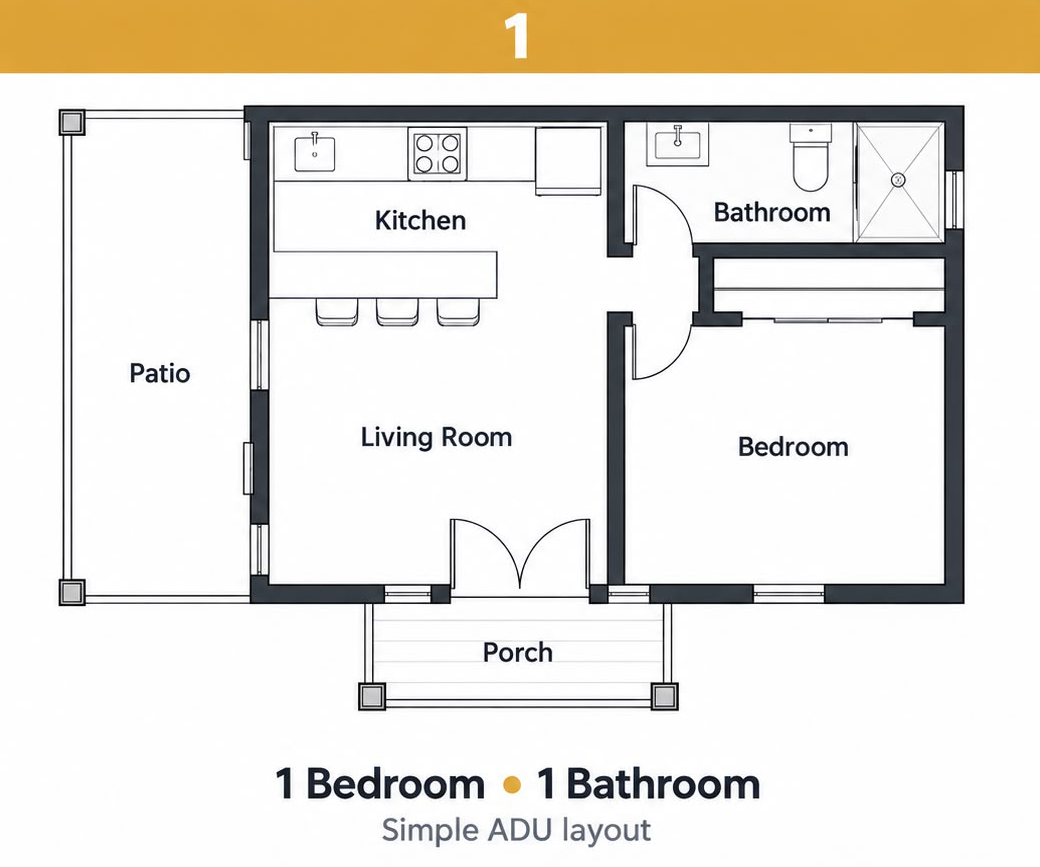
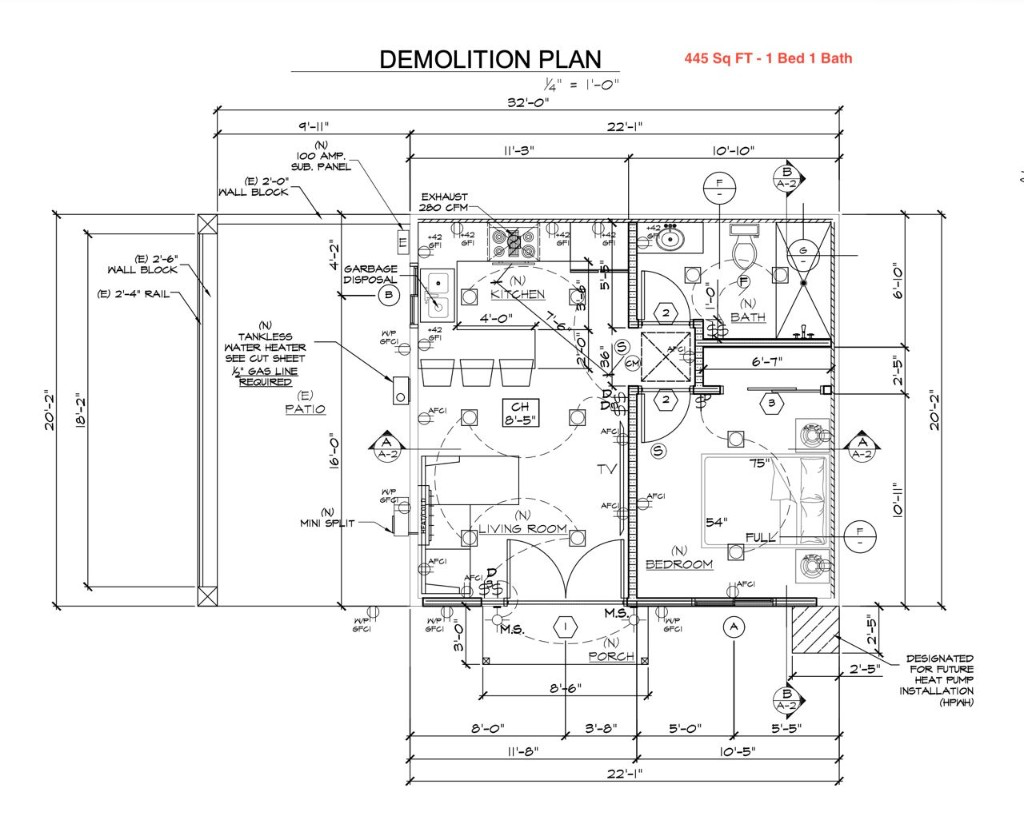
Refresh ADU floor-plan options with new plans and a lightbox.
Swap in the three current plan sheets, align titles to real sq ft specs, and let visitors open a full-viewport view for clearer reading.

Changed region(s): [[0.0, 0.0, 1.0, 0.9804], [0.8125, 0.8885, 0.8438, 0.9498]]

diff --git a/client/global.css b/client/global.css
@@ -2018,7 +2018,25 @@ label {
   border: 1px solid #ebe3d4;
   overflow: hidden;
 }
-.adu-option-figure img {
+.adu-option-zoom {
+  position: relative;
+  display: block;
+  width: 100%;
+  margin: 0;
+  padding: 0;
+  border: 0;
+  background: #fff;
+  cursor: zoom-in;
+  text-align: left;
+  font: inherit;
+  color: inherit;
+}
+.adu-option-zoom:focus-visible {
+  outline: 2px solid var(--gold);
+  outline-offset: 2px;
+}
+.adu-option-figure img,
+.adu-option-zoom img {
   display: block;
   width: 100%;
   height: auto;
@@ -2026,6 +2044,22 @@ label {
   object-fit: contain;
   object-position: center;
   animation: groundwork-image-in 500ms ease-out both;
+}
+.adu-option-zoom-hint {
+  position: absolute;
+  right: 0.65rem;
+  bottom: 0.65rem;
+  display: inline-flex;
+  align-items: center;
+  gap: 0.35rem;
+  padding: 0.4rem 0.65rem;
+  border-radius: 999px;
+  background: rgba(14, 42, 74, 0.88);
+  color: #fff;
+  font-size: 0.72rem;
+  font-weight: 650;
+  letter-spacing: 0.02em;
+  pointer-events: none;
 }
 .adu-option-card-meta {
   margin-top: 1rem;
@@ -2046,6 +2080,87 @@ label {
   width: 100%;
   margin-top: 1.15rem;
   justify-content: center;
+}
+
+/* Floor-plan lightbox (public) */
+.image-lightbox-backdrop {
+  position: fixed;
+  inset: 0;
+  z-index: 80;
+  display: flex;
+  align-items: center;
+  justify-content: center;
+  padding: max(0.75rem, env(safe-area-inset-top))
+    max(0.75rem, env(safe-area-inset-right))
+    max(0.75rem, env(safe-area-inset-bottom))
+    max(0.75rem, env(safe-area-inset-left));
+  background: rgba(14, 42, 74, 0.72);
+  backdrop-filter: blur(4px);
+}
+.image-lightbox {
+  display: flex;
+  flex-direction: column;
+  width: min(1120px, 100%);
+  max-height: min(92vh, 100%);
+  background: #fff;
+  border-radius: 0.85rem;
+  box-shadow: 0 24px 64px rgba(0, 0, 0, 0.28);
+  overflow: hidden;
+  min-width: 0;
+}
+.image-lightbox-bar {
+  display: flex;
+  align-items: center;
+  justify-content: space-between;
+  gap: 0.75rem;
+  padding: 0.75rem 0.9rem;
+  border-bottom: 1px solid rgba(14, 42, 74, 0.08);
+  background: #faf7f1;
+}
+.image-lightbox-title {
+  margin: 0;
+  display: inline-flex;
+  align-items: center;
+  gap: 0.45rem;
+  min-width: 0;
+  color: var(--ink);
+  font-size: 0.85rem;
+  font-weight: 650;
+}
+.image-lightbox-close {
+  display: inline-flex;
+  align-items: center;
+  justify-content: center;
+  width: 2.25rem;
+  height: 2.25rem;
+  flex-shrink: 0;
+  border: 0;
+  border-radius: 999px;
+  background: rgba(14, 42, 74, 0.08);
+  color: var(--ink);
+  cursor: pointer;
+}
+.image-lightbox-close:hover {
+  background: rgba(14, 42, 74, 0.14);
+}
+.image-lightbox-close:focus-visible {
+  outline: 2px solid var(--gold);
+  outline-offset: 2px;
+}
+.image-lightbox-stage {
+  flex: 1;
+  min-height: 0;
+  overflow: auto;
+  -webkit-overflow-scrolling: touch;
+  padding: 0.75rem;
+  background: #fff;
+}
+.image-lightbox-stage img {
+  display: block;
+  width: 100%;
+  height: auto;
+  max-width: none;
+  margin: 0 auto;
 }
 
 .designs-section {

diff --git a/client/components/AduOptionsSection.tsx b/client/components/AduOptionsSection.tsx
@@ -1,7 +1,8 @@
 import { useState } from "react";
 import { Link } from "react-router-dom";
-import { ArrowRight } from "lucide-react";
+import { ArrowRight, Expand } from "lucide-react";
 import { useTranslation } from "react-i18next";
+import ImageLightbox from "@/components/ImageLightbox";
 
 const PLAN_OPTIONS = [1, 2, 3] as const;
 
@@ -10,6 +11,10 @@ export default function AduOptionsSection() {
   const { t } = useTranslation();
   const [activePlan, setActivePlan] =
     useState<(typeof PLAN_OPTIONS)[number]>(1);
+  const [lightboxOpen, setLightboxOpen] = useState(false);
+
+  const planSrc = `/adu/plan-${activePlan}.png`;
+  const planAlt = t(`options.plan${activePlan}Alt`);
 
   return (
     <section
@@ -47,7 +52,10 @@ export default function AduOptionsSection() {
                     ? "adu-option-tab is-active"
                     : "adu-option-tab"
                 }
-                onClick={() => setActivePlan(n)}
+                onClick={() => {
+                  setActivePlan(n);
+                  setLightboxOpen(false);
+                }}
               >
                 <span className="adu-option-tab-num">0{n}</span>
                 <span className="adu-option-tab-label">
@@ -69,12 +77,24 @@ export default function AduOptionsSection() {
             <span>{t(`options.plan${activePlan}Kicker`)}</span>
           </div>
           <figure className="adu-option-figure">
-            <img
-              key={activePlan}
-              src={`/adu/plan-${activePlan}.png`}
-              alt={t(`options.plan${activePlan}Alt`)}
-              loading="lazy"
-            />
+            <button
+              type="button"
+              className="adu-option-zoom"
+              onClick={() => setLightboxOpen(true)}
+              aria-label={t("options.openLightbox", {
+                plan: t(`options.plan${activePlan}Title`),
+              })}
+            >
+              <img
+                key={activePlan}
+                src={planSrc}
+                alt={planAlt}
+                loading="lazy"
+              />
+              <span className="adu-option-zoom-hint">
+                <Expand size={15} aria-hidden /> {t("options.viewLarger")}
+              </span>
+            </button>
           </figure>
           <div className="adu-option-card-meta">
             <strong>{t(`options.plan${activePlan}Title`)}</strong>
@@ -85,6 +105,13 @@ export default function AduOptionsSection() {
           </Link>
         </article>
       </div>
+
+      <ImageLightbox
+        open={lightboxOpen}
+        src={planSrc}
+        alt={planAlt}
+        onClose={() => setLightboxOpen(false)}
+      />
     </section>
   );
 }

diff --git a/client/components/ImageLightbox.tsx b/client/components/ImageLightbox.tsx
@@ -1,0 +1,86 @@
+import { useEffect, useId, useRef } from "react";
+import { createPortal } from "react-dom";
+import { X, ZoomIn } from "lucide-react";
+import { useTranslation } from "react-i18next";
+
+/**
+ * Full-viewport image lightbox for public pages (floor plans, etc.).
+ * Escape / backdrop / close button dismiss; body scroll locked while open.
+ */
+export default function ImageLightbox({
+  open,
+  src,
+  alt,
+  onClose,
+}: {
+  open: boolean;
+  src: string;
+  alt: string;
+  onClose: () => void;
+}) {
+  const { t } = useTranslation();
+  const titleId = useId();
+  const closeRef = useRef<HTMLButtonElement>(null);
+  const previouslyFocused = useRef<HTMLElement | null>(null);
+
+  useEffect(() => {
+    if (!open) return;
+    previouslyFocused.current = document.activeElement as HTMLElement | null;
+    const prevOverflow = document.body.style.overflow;
+    document.body.style.overflow = "hidden";
+
+    const onKey = (e: KeyboardEvent) => {
+      if (e.key === "Escape") {
+        e.stopPropagation();
+        onClose();
+      }
+    };
+    window.addEventListener("keydown", onKey);
+    window.requestAnimationFrame(() => closeRef.current?.focus());
+
+    return () => {
+      window.removeEventListener("keydown", onKey);
+      document.body.style.overflow = prevOverflow;
+      previouslyFocused.current?.focus?.();
+    };
+  }, [open, onClose]);
+
+  if (!open) return null;
+
+  return createPortal(
+    <div
+      className="image-lightbox-backdrop"
+      role="presentation"
+      onMouseDown={(e) => {
+        if (e.target === e.currentTarget) onClose();
+      }}
+    >
+      <div
+        className="image-lightbox"
+        role="dialog"
+        aria-modal="true"
+        aria-labelledby={titleId}
+        onMouseDown={(e) => e.stopPropagation()}
+      >
+        <div className="image-lightbox-bar">
+          <p id={titleId} className="image-lightbox-title">
+            <ZoomIn size={16} aria-hidden /> {alt}
+          </p>
+          <button
+            ref={closeRef}
+            type="button"
+            className="image-lightbox-close"
+            onClick={onClose}
+            aria-label={t("options.closeLightbox")}
+          >
+            <X size={20} />
+          </button>
+        </div>
+        <div className="image-lightbox-stage">
+          <img src={src} alt={alt} />
+        </div>
+      </div>
+    </div>,
+    document.body,
+  );
+}

diff --git a/DESIGN_SYSTEM.md b/DESIGN_SYSTEM.md
@@ -178,7 +178,12 @@ Affiliate lookup (`GET /api/public/affiliates/by-code/:code`) is rate limited pe
 
 ## Composition
 
-Editorial landing (`/`): hero + benefit grid + ADU definition + dark why-ADU comparison cards + process + risks (copy + scaffolding renovation photo) + market numbers + ADU designs gallery (3 exterior viz + specialist CTA) + partner teaser + financing explainer + interactive ADU floor-plan options (tabbed card, event-section language) + event band (when live) + lead form (event mode) + credit-report CTA.
+Editorial landing (`/`): hero + benefit grid + ADU definition + dark why-ADU comparison cards + process + risks (copy + scaffolding renovation photo) + market numbers + ADU designs gallery (3 exterior viz + specialist CTA) + partner teaser + financing explainer + interactive ADU floor-plan options (tabbed card, event-section language; click plan → full-viewport lightbox) + event band (when live) + lead form (event mode) + credit-report CTA.
+
+### ADU floor-plan options (`#adu-options`)
+
+- Assets: `/public/adu/plan-1.png` (445 sf · 1bd/1ba), `plan-2.png` (830 sf · 2-story 2bd/2ba), `plan-3.png` (474 sf · 2bd/1ba).
+- Card image is a button with “View larger”; opens `ImageLightbox` (Escape / backdrop / close). Mobile: lightbox stage scrolls; no document horizontal scroll.
 
 Interior routes share home band language:
 - `/about` — interior hero → benefit steps → opportunity who-band → statement mission → financing why-list + CTA
